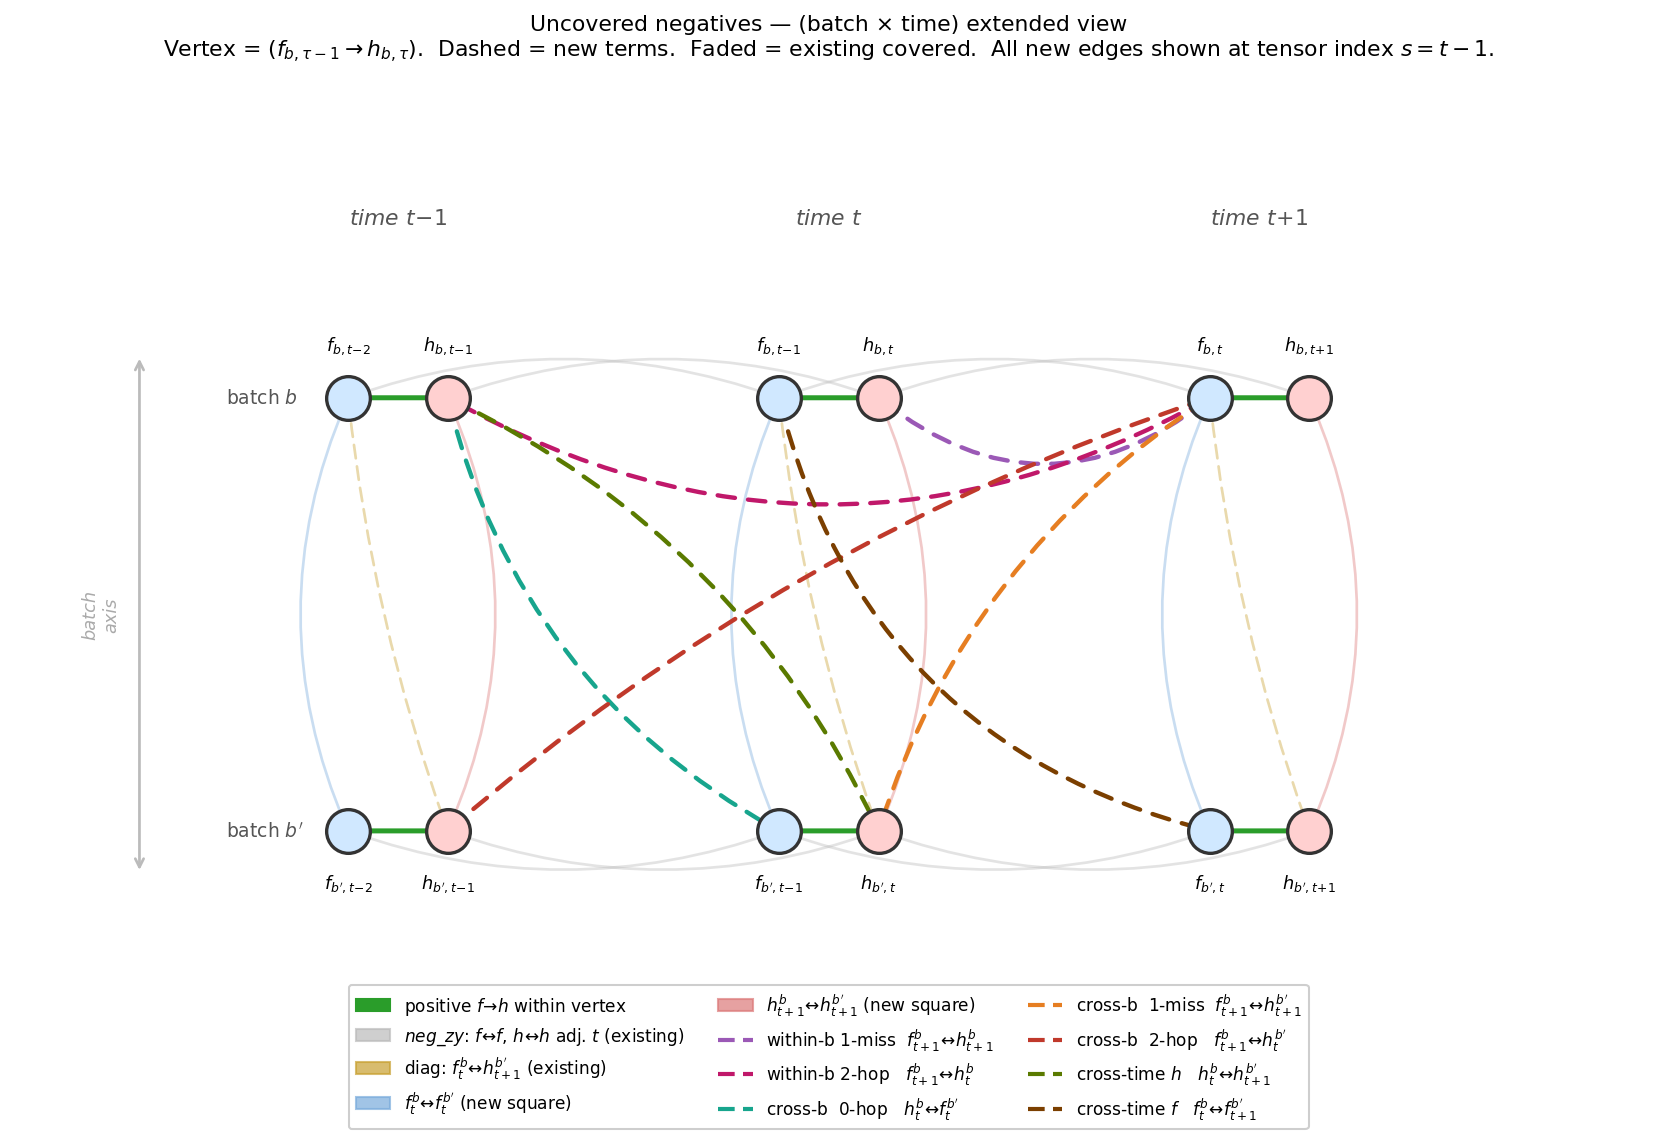
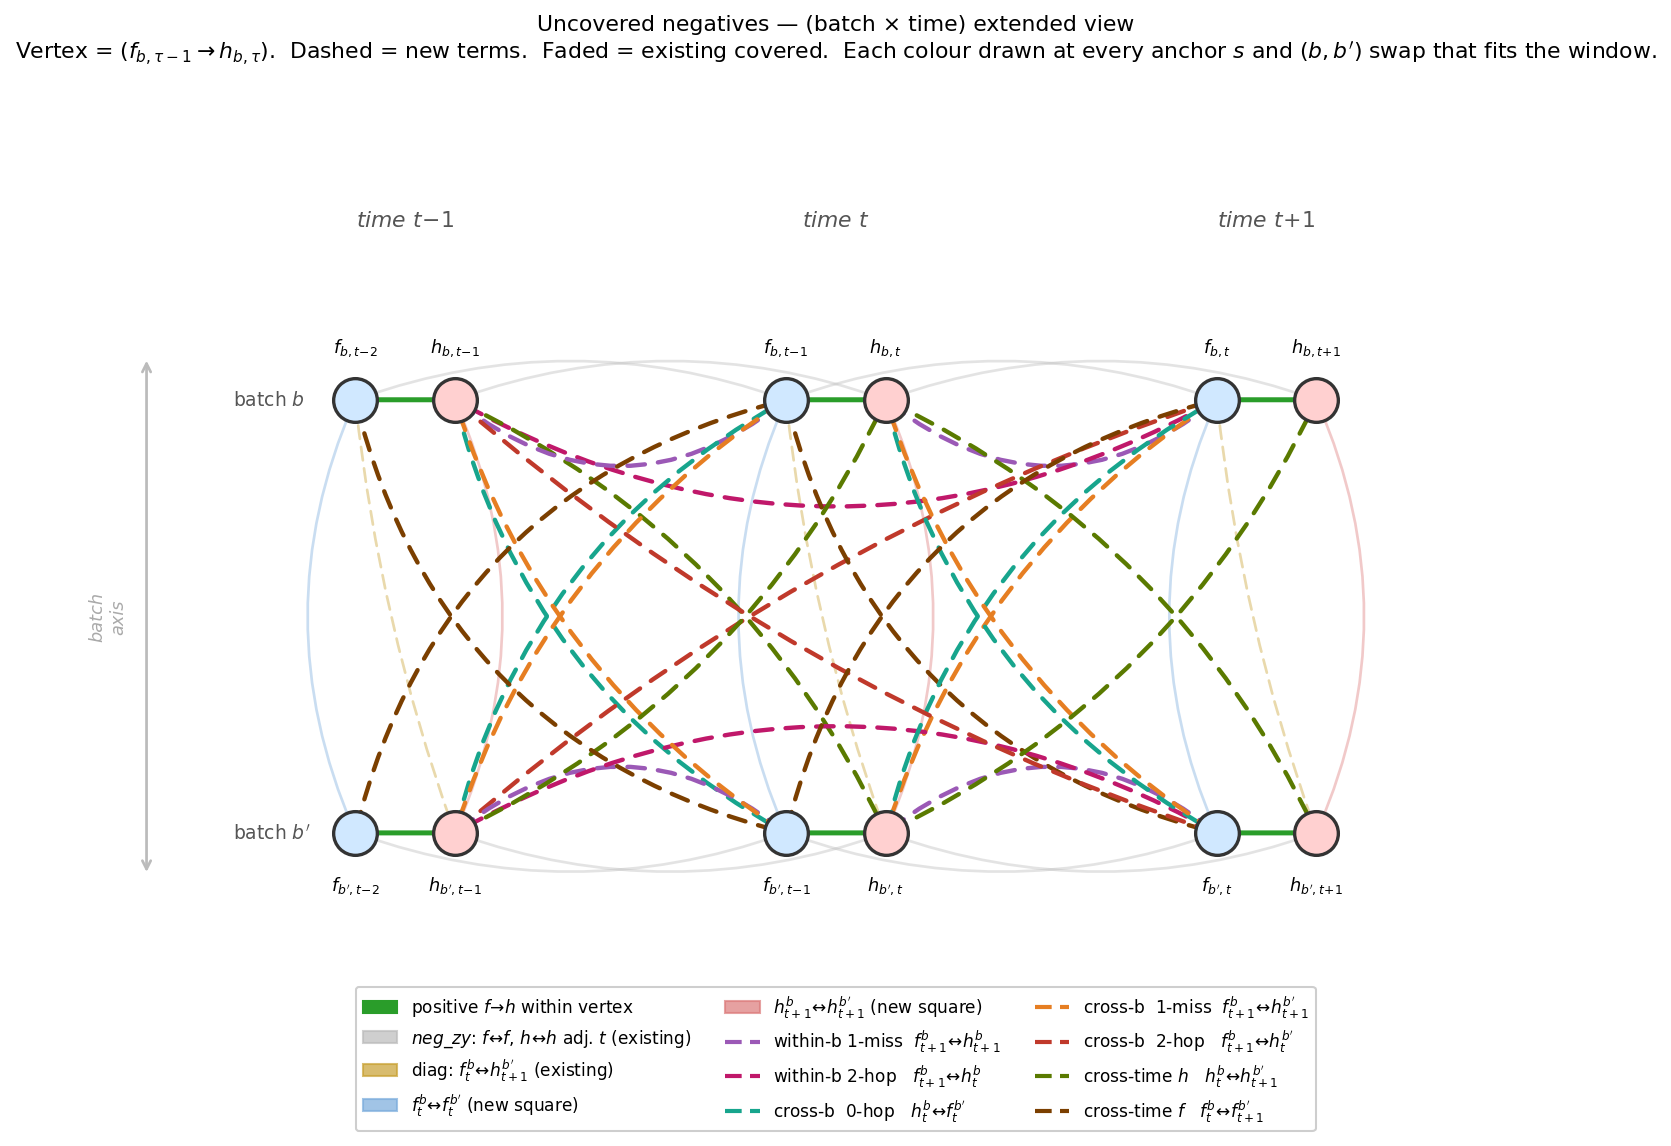
plot(additional-negatives): draw auto-shifted echoes per colour
Each new loss term applies at every anchor s and every (b, b') with
b ≠ b'. Previously the 7 candidate edges were drawn only at the
centred anchor s = t-1 on row b, which hides that adding one term
creates many edges in the diagram window — the very point that the
loss summing over all t and b makes some "uncovered" edges land for
free at neighbouring positions.

This patch keeps the legend untouched and adds, in the SAME colour as
each source edge, every translation copy that fits in the 6-vertex
window: anchor s shifted to s±1, plus the b ↔ b' label-swap for the
cross-batch terms. Title rephrased ("Each colour drawn at every anchor
s and (b, b') swap that fits the window").

Per-colour additions:
  WB1 (purple): +3 — f_TM↔h_TL, f_BM↔h_BL, f_BR↔h_BM
  WB2 (magenta): +1 — f_BR↔h_BL
  CB0 (teal): +3 — h_BL↔f_TM, h_TM↔f_BR, h_BM↔f_TR
  CB1 (orange): +3 — f_TM↔h_BL, f_BM↔h_TL, f_BR↔h_TM
  CB2 (dark red): +1 — f_BR↔h_TL
  CTH (olive): +3 — h_BL↔h_TM, h_TM↔h_BR, h_BM↔h_TR
  CTF (brown): +3 — f_TL↔f_BM, f_BL↔f_TM, f_BM↔f_TR

diff --git a/experiments/2026-05-09_exp_additional_negatives/scripts/plot_additional_negatives_diagram.py b/experiments/2026-05-09_exp_additional_negatives/scripts/plot_additional_negatives_diagram.py
@@ -114,6 +114,44 @@ arrow("h_TL", "h_BM", C_CTH, 2.1, ls=(0, (4, 3)), rad=-0.18, zorder=4)
 # 7. cross-time f:    f_s^b      ↔ f_{s+1}^{b'} → f_TM ↔ f_BR
 arrow("f_TM", "f_BR", C_CTF, 2.1, ls=(0, (4, 3)), rad= 0.30, zorder=4)
 
+# ── AUTO-SHIFTED ECHOES ────────────────────────────────────────────────────────
+# Each loss term above applies at every anchor s and every (b, b') with b ≠ b'.
+# The 7 primaries above are drawn at the centred anchor s = t-1 on row b.
+# Below: every additional copy that lands inside the 6-vertex window — i.e.
+# anchor s shifted to s±1, and/or the batch label-swap b ↔ b' for cross-b
+# terms. Drawn in the SAME colour as the source so the legend is unchanged.
+
+# WB1 (purple) — within-b (f_τ, h_τ); τ ∈ {t-1, t}, both rows
+arrow("f_TM", "h_TL", C_WB1, 2.1, ls=(0, (4, 3)), rad=-0.40, zorder=4)  # b, τ=t-1
+arrow("f_BM", "h_BL", C_WB1, 2.1, ls=(0, (4, 3)), rad= 0.40, zorder=4)  # b', τ=t-1
+arrow("f_BR", "h_BM", C_WB1, 2.1, ls=(0, (4, 3)), rad= 0.40, zorder=4)  # b', τ=t
+
+# WB2 (magenta) — within-b (f_τ, h_{τ-1}); only τ=t fits (τ=t-1 needs h_{t-2})
+arrow("f_BR", "h_BL", C_WB2, 2.1, ls=(0, (4, 3)), rad= 0.28, zorder=4)  # b', τ=t
+
+# CB0 (teal) — cross-b (h_b, f_{b'}) same τ; τ ∈ {t-1, t}
+arrow("h_BL", "f_TM", C_CB0, 2.1, ls=(0, (4, 3)), rad=-0.22, zorder=4)  # τ=t-1, b↔b'
+arrow("h_TM", "f_BR", C_CB0, 2.1, ls=(0, (4, 3)), rad= 0.22, zorder=4)  # τ=t
+arrow("h_BM", "f_TR", C_CB0, 2.1, ls=(0, (4, 3)), rad=-0.22, zorder=4)  # τ=t, b↔b'
+
+# CB1 (orange) — cross-b (f_b, h_{b'}) same τ (same set as CB0 under b↔b')
+arrow("f_TM", "h_BL", C_CB1, 2.1, ls=(0, (4, 3)), rad= 0.18, zorder=4)  # τ=t-1
+arrow("f_BM", "h_TL", C_CB1, 2.1, ls=(0, (4, 3)), rad=-0.18, zorder=4)  # τ=t-1, b↔b'
+arrow("f_BR", "h_TM", C_CB1, 2.1, ls=(0, (4, 3)), rad=-0.18, zorder=4)  # τ=t, b↔b'
+
+# CB2 (dark red) — cross-b (f_τ, h_{τ-1}); only τ=t fits
+arrow("f_BR", "h_TL", C_CB2, 2.1, ls=(0, (4, 3)), rad=-0.10, zorder=4)  # τ=t, b↔b'
+
+# CTH (olive) — cross-b (h_{τ-1}, h_τ); τ ∈ {t, t+1}
+arrow("h_BL", "h_TM", C_CTH, 2.1, ls=(0, (4, 3)), rad= 0.18, zorder=4)  # τ=t, b↔b'
+arrow("h_TM", "h_BR", C_CTH, 2.1, ls=(0, (4, 3)), rad=-0.18, zorder=4)  # τ=t+1
+arrow("h_BM", "h_TR", C_CTH, 2.1, ls=(0, (4, 3)), rad= 0.18, zorder=4)  # τ=t+1, b↔b'
+
+# CTF (brown) — cross-b (f_τ, f_{τ+1}); τ ∈ {t-2, t-1}
+arrow("f_TL", "f_BM", C_CTF, 2.1, ls=(0, (4, 3)), rad= 0.30, zorder=4)  # τ=t-2
+arrow("f_BL", "f_TM", C_CTF, 2.1, ls=(0, (4, 3)), rad=-0.30, zorder=4)  # τ=t-2, b↔b'
+arrow("f_BM", "f_TR", C_CTF, 2.1, ls=(0, (4, 3)), rad=-0.30, zorder=4)  # τ=t-1, b↔b'
+
 # ── Nodes (drawn on top) ───────────────────────────────────────────────────────
 F_COLOR = "#d0e8ff"
 H_COLOR = "#ffd0d0"
@@ -153,7 +191,7 @@ ax.set_title(
     "Uncovered negatives — (batch × time) extended view\n"
     r"Vertex = $(f_{b,\tau-1} \to h_{b,\tau})$.  "
     r"Dashed = new terms.  Faded = existing covered.  "
-    r"All new edges shown at tensor index $s = t-1$.",
+    r"Each colour drawn at every anchor $s$ and $(b,b')$ swap that fits the window.",
     fontsize=10.5, pad=10)
 
 # ── Legend ─────────────────────────────────────────────────────────────────────
